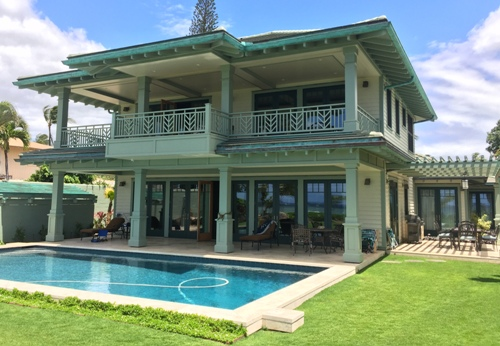
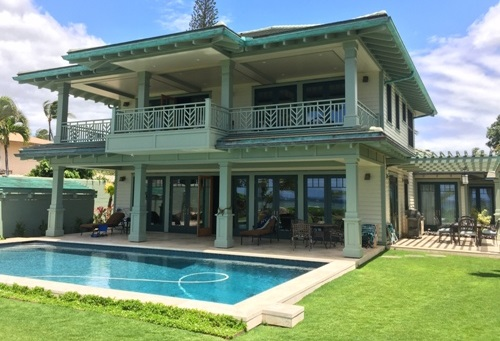
Crop portfolio images equally

diff --git a/portfolio/index.html b/portfolio/index.html
@@ -116,7 +116,7 @@
 				</a>
 
 				<a href="olinda-road-house">
-					<img src="olinda-road-house/olinda-road-house-exterior.jpg" alt="Olinda Road House Maui Hawaii">
+					<img src="../images/portfolio/min/olinda-road-house-exterior.min.jpg" alt="Olinda Road House Maui Hawaii">
 					<div class="caption"> 
 						Olinda Road House Maui Hawaii
 					</div>
